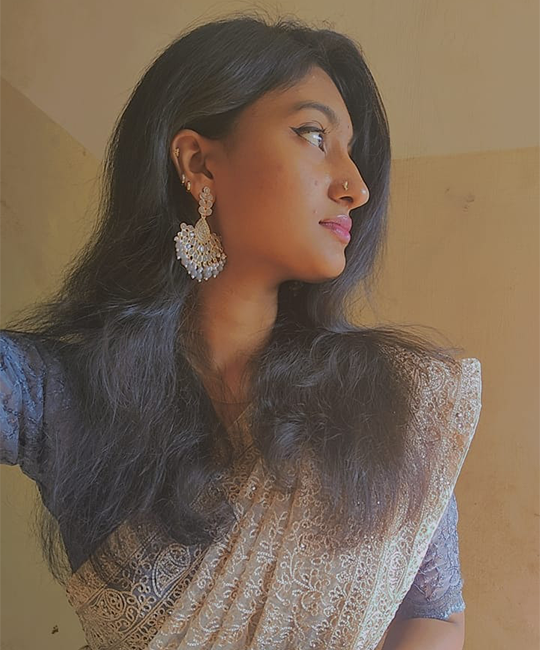
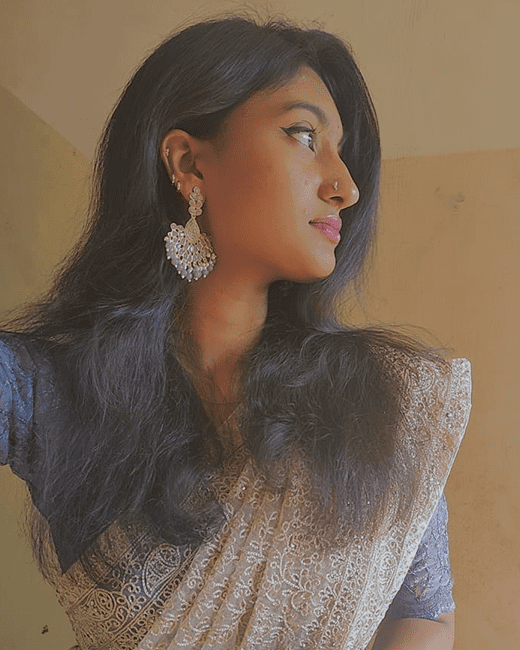
team page updated

diff --git a/team.html b/team.html
@@ -179,12 +179,12 @@
                     <div class="col-lg-3 col-md-6 col-sm-12">
                         <div class="team-item mb-55 wow fadeInUp" data-wow-delay=".25s">
                             <div class="img-holder">
-                                <img src="assets/images/team/nivedhitha.png" alt="">
+                                <img src="assets/images/team/charanyaa.png" alt="">
                             </div>
                             <div class="text text-center">
                                 
-                                <h4><a><br>Nivedhitha G K</a></h4>
-                                <p class="position">Co Chair - E & I</p>
+                                <h4><a><br>Charanya R</a></h4>
+                                <p class="position">Co Chair - Accessibility</p>
                             </div>
                         </div>
                     </div>
